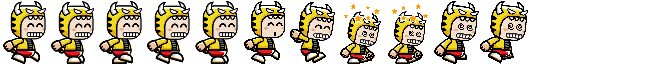
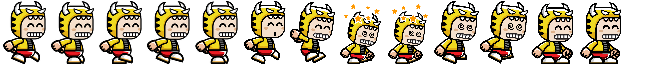
switch  to pc

Changed region(s): [[0.7812, 0.0312, 0.9375, 1.0]]

diff --git a/src/classes/player-switch.ts b/src/classes/player-switch.ts
@@ -1,0 +1,142 @@
+import { DefaultText } from "./default-text";
+
+enum Direction {
+	LEFT,
+	RIGHT
+}
+
+enum PlayerNames {
+	__START,
+	Lion,
+	Crocodile,
+	__END
+}
+
+export class PlayerSwitch extends Phaser.GameObjects.Container {
+
+	players: Array<Phaser.GameObjects.Sprite>;
+	activePlayer: PlayerNames;
+	previewPlayer: Phaser.GameObjects.Sprite;
+
+	constructor(scene: Phaser.Scene) {
+		super(
+			scene,
+			scene.physics.world.bounds.centerX,
+			scene.physics.world.bounds.centerY
+		);
+
+		this.addPlayer();
+		scene.add.existing(this);
+	}
+
+	public getSelectedSprite(): Phaser.GameObjects.Sprite {
+		return this.players[this.activePlayer];
+	}
+
+	private addPlayer() {
+		this.setDepth(4);
+
+		this.players = [];
+
+		// player.setDepth(4);
+		// player.anims.play('standing');
+
+		const left = this.addControl(Direction.LEFT, () => {
+			console.log('Left player');
+		});
+
+		const right = this.addControl(Direction.RIGHT, () => {
+			console.log('Right player');
+		});
+
+		new DefaultText(this.scene, 100, 100, 'Servus', 32).setInteractive().on('pointerdown', () => {
+			this.drawPlayer(Direction.LEFT);
+		});
+
+		this.drawPlayer();
+
+		// left.setDepth(4);
+		this.add(left);
+		this.add(right);
+		this.setInteractive();
+	}
+
+	private drawPlayer(direction?: Direction) {
+		if (this.activePlayer == null) {
+			this.activePlayer = PlayerNames.Crocodile;
+		}
+
+		if (direction != null) {
+			if (this.players[this.activePlayer] != null) {
+				this.players[this.activePlayer].setActive(false);
+				this.players[this.activePlayer].setVisible(false);
+			}
+
+			if (Direction.LEFT)
+				this.activePlayer--;
+			else if (Direction.RIGHT)
+				this.activePlayer++;
+
+			if (this.activePlayer === PlayerNames.__START)
+				this.activePlayer = PlayerNames.__END - 1;
+
+			if (this.activePlayer === PlayerNames.__END)
+				this.activePlayer = PlayerNames.__START + 1;
+		}
+
+		if (this.players[this.activePlayer] == null) {
+			this.players[this.activePlayer] = this.scene.add.sprite(
+				0,
+				0,
+				`player${PlayerNames[this.activePlayer]}`,
+				11
+			);
+
+			this.add(this.players[this.activePlayer]);
+		} else {
+			this.players[this.activePlayer].setActive(true);
+			this.players[this.activePlayer].setVisible(true);
+		}
+
+		// this.players[this.activePlayer].play('standing');
+	}
+
+	private addControl(type: Direction, callback: () => void)
+	: Phaser.GameObjects.Triangle {
+		let control: Phaser.GameObjects.Triangle;
+		const color: number = 0xffffff;
+
+		if (type === Direction.LEFT) {
+			control = this.scene.add.triangle(
+				-32,
+				0,
+				-32,
+				-10,
+				-32,
+				10,
+				-48,
+				0,
+				color
+			);
+		} else {
+			control = this.scene.add.triangle(
+				32,
+				0,
+				32,
+				10,
+				32,
+				-10,
+				48,
+				0,
+				color
+			);
+		}
+
+		control.setInteractive();
+		control.on('pointerdown', () => {
+			console.log('test');
+		});
+
+		return control;
+	}
+}

diff --git a/src/scenes/preloader.ts b/src/scenes/preloader.ts
@@ -19,7 +19,9 @@ export class PreloaderScene extends Phaser.Scene {
 		this.facebook.once('startgame', this.startGame, this);
 		this.facebook.showLoadProgress(this);
 
-		this.load.spritesheet('player', 'assets/player-lion.png',
+		this.load.spritesheet('playerCrocodile', 'assets/player-crocodile.png',
+			{ frameWidth: 48, frameHeight: 64 });
+		this.load.spritesheet('playerLion', 'assets/player-lion.png',
 			{ frameWidth: 48, frameHeight: 64 });
 		this.load.spritesheet('lava', 'assets/lava-animated.png',
 			{ frameWidth: 32, frameHeight: 32 });
@@ -97,6 +99,13 @@ export class PreloaderScene extends Phaser.Scene {
 			frames: this.anims.generateFrameNumbers('player', {start: 9, end: 10}),
 			frameRate: 2,
 			repeat: 0
+		});
+
+		this.anims.create({
+			key: 'standing',
+			frames: this.anims.generateFrameNumbers('player', {start: 11, end: 12}),
+			frameRate: 4,
+			repeat: -1
 		});
 
 		// this.startGame();

diff --git a/src/scenes/main-menu.ts b/src/scenes/main-menu.ts
@@ -7,6 +7,7 @@ import { RoomService } from '../services/room';
 import { SoundService } from '../services/sound';
 import { Animations } from '../services/animations';
 import { TranslateService } from '../services/translate';
+import { PlayerSwitch } from '../classes/player-switch';
 
 const sceneConfig: Phaser.Types.Scenes.SettingsConfig = {
     active: false,
@@ -22,6 +23,8 @@ export class MainMenuScene extends Phaser.Scene {
 	beatScore: DefaultText;
 	playButton: Phaser.GameObjects.Container;
 	leaderboardButton: Phaser.GameObjects.Container;
+
+	playerSwitch: PlayerSwitch;
 
 	buttonService: ButtonService;
 	lavaService: LavaService;
@@ -99,6 +102,7 @@ export class MainMenuScene extends Phaser.Scene {
 			}
 		);
 
+		this.playerSwitch = new PlayerSwitch(this);
 		this.soundService.addSoundButton();
 	}
 

diff --git a/src/scenes/game.ts b/src/scenes/game.ts
@@ -14,6 +14,8 @@ const sceneConfig: Phaser.Types.Scenes.SettingsConfig = {
 
 export class GameScene extends Phaser.Scene {
 
+	playerSprite: Phaser.GameObjects.Sprite;
+
 	enteredPortal: Phaser.Events.EventEmitter;
 	performanceTest: Array<number> = [];
 
@@ -56,6 +58,10 @@ export class GameScene extends Phaser.Scene {
 		if (this.globalLeaderboard == null) {
 			this.initializeLeaderboard();
 		}
+
+		if (data.player != null) {
+			this.playerSprite = data.player;
+		}
 	}
 
     public preload(): void {}
@@ -72,7 +78,7 @@ export class GameScene extends Phaser.Scene {
 
 		// Player
 		this.playerService.setPlayerJumps(0);
-		this.playerService.addPlayer();
+		this.playerService.addPlayer(this.playerSprite);
 
 		// Lava
 		this.lavaService.init(Room.BASEMENT);

diff --git a/src/services/player.ts b/src/services/player.ts
@@ -42,7 +42,7 @@ export class PlayerService {
 			if (this.player.anims.currentAnim.key != 'dizzy') {
 				this.player.anims.stop();
 
-				if (this.player.body.deltaY() < 0) {					
+				if (this.player.body.deltaY() < 0) {
 					this.player.setFrame(5);
 				} else {
 					this.player.setFrame(6);
@@ -54,7 +54,7 @@ export class PlayerService {
 		}
 	}
 
-	addPlayer() {
+	addPlayer(player: Phaser.GameObjects.Sprite) {
 		if (this.currentRoom == Room.LIVING_ROOM) {
 			this.player = this.scene.physics.add.sprite(
 				this.startPosition.livingRoom.x,
